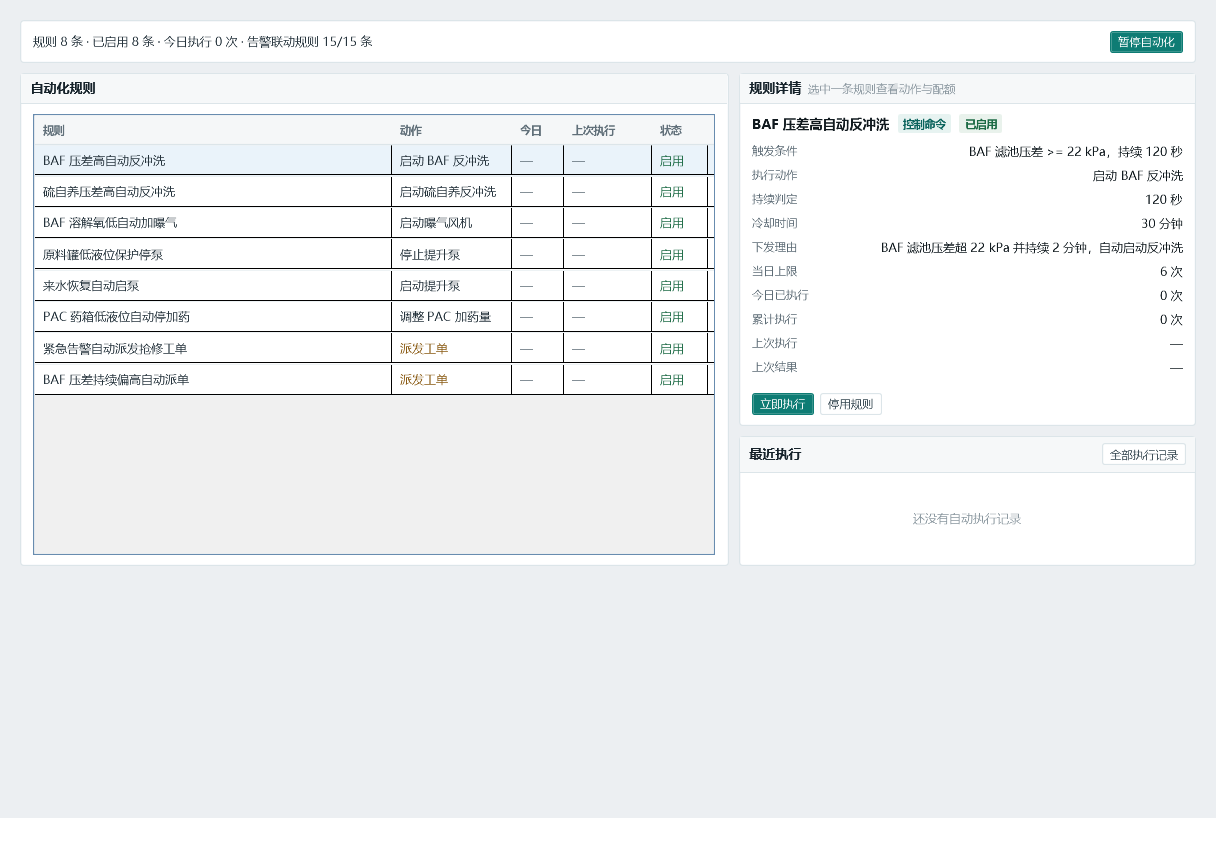
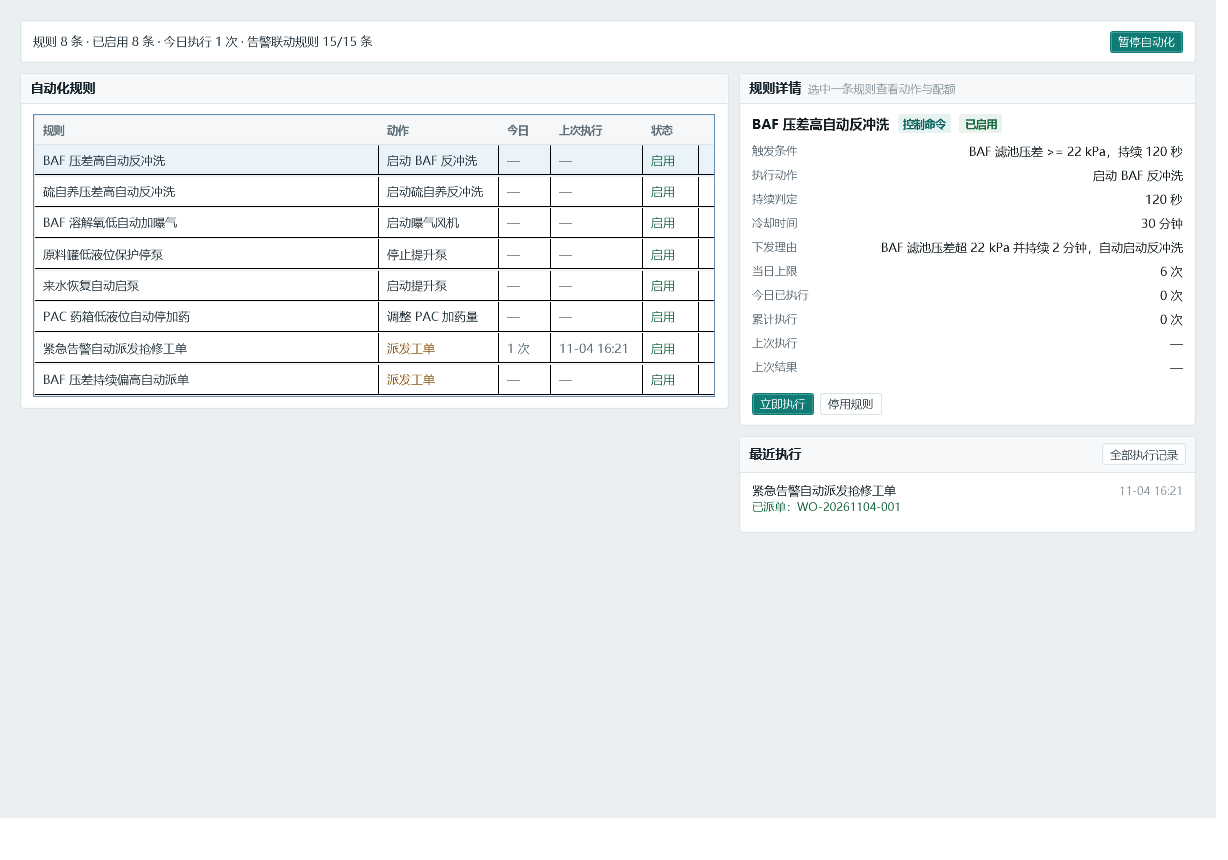
fix(desktop): 表格空态不再塞假行、表高贴合内容；参数表去掉重复单位列

diff --git a/native/ZhifuWater.Desktop/Pages/ParamsPage.cs b/native/ZhifuWater.Desktop/Pages/ParamsPage.cs
@@ -12,6 +12,7 @@ public sealed class ParamsPage : PageBase
 {
     private DataGrid _table = null!;
     private DataGrid _requests = null!;
+    private TextBlock _requestsEmpty = null!;
     private StackPanel _detail = null!;
     private TextBlock _info = null!;
     private ParamInfo? _selected;
@@ -59,8 +60,8 @@ public sealed class ParamsPage : PageBase
         columns.ColumnDefinitions.Add(new ColumnDefinition { Width = new GridLength(1, GridUnitType.Star) });
 
         var left = new StackPanel();
-        _table = Table(new[] { "参数", "分组", "当前值", "范围", "单位", "写入", "版本", "更新时间" },
-            new double[] { 0, 118, 84, 108, 52, 56, 42, 112 });
+        _table = Table(new[] { "参数", "分组", "当前值", "范围", "写入", "版本", "更新时间" },
+            new double[] { 0, 118, 96, 108, 60, 42, 108 });
         _table.SelectionChanged += (_, _) =>
         {
             if (_table.SelectedItem is UiRow row && row.Data is ParamInfo p)
@@ -80,7 +81,14 @@ public sealed class ParamsPage : PageBase
         var reqBody = new DockPanel { LastChildFill = true };
         DockPanel.SetDock(reqButtons, Dock.Bottom);
         reqBody.Children.Add(reqButtons);
-        reqBody.Children.Add(_requests);
+        _requestsEmpty = Kit.T("暂无待审批的修改申请", 12, Pal.Muted2);
+        _requestsEmpty.HorizontalAlignment = HorizontalAlignment.Center;
+        _requestsEmpty.Margin = new Thickness(0, 16, 0, 16);
+        _requestsEmpty.Visibility = Visibility.Collapsed;
+        var reqHost = new Grid();
+        reqHost.Children.Add(_requests);
+        reqHost.Children.Add(_requestsEmpty);
+        reqBody.Children.Add(reqHost);
         var reqCard = Kit.Card("参数修改申请", reqBody, null, "审批后生效", new Thickness(10, 8, 10, 8));
         reqCard.Margin = new Thickness(0, 10, 0, 0);
         left.Children.Add(reqCard);
@@ -117,12 +125,11 @@ public sealed class ParamsPage : PageBase
                 p.Group,
                 ParamValueText(p),
                 ParamRangeText(p),
-                p.Unit,
                 WriteModeText(p.WriteMode),
                 "v" + p.Version,
                 p.UpdatedAt,
             },
-            Fgs = new[] { Pal.Ink2, Pal.Muted, Pal.Ink, Pal.Muted, Pal.Muted2, Pal.Muted2, Pal.Muted2, Pal.Muted2 },
+            Fgs = new[] { Pal.Ink2, Pal.Muted, Pal.Ink, Pal.Muted, Pal.Muted2, Pal.Muted2, Pal.Muted2 },
             Data = p,
             Key = p.Key,
         }).ToList();
@@ -146,17 +153,8 @@ public sealed class ParamsPage : PageBase
             Key = r.Id,
         }).ToList();
         _requests.ItemsSource = reqRows;
-        if (reqRows.Count == 0)
-        {
-            _requests.ItemsSource = new[]
-            {
-                new UiRow
-                {
-                    Texts = new[] { "暂无待审批的修改申请", "", "", "", "", "" },
-                    Fgs = Enumerable.Repeat(Pal.Muted2, 6).ToArray(),
-                },
-            };
-        }
+        _requests.Visibility = reqRows.Count == 0 ? Visibility.Collapsed : Visibility.Visible;
+        _requestsEmpty.Visibility = reqRows.Count == 0 ? Visibility.Visible : Visibility.Collapsed;
         ShowDetail();
     }
 

diff --git a/native/ZhifuWater.Desktop/Ui/UiKit.cs b/native/ZhifuWater.Desktop/Ui/UiKit.cs
@@ -486,8 +486,8 @@ public static class Kit
             var chrome = grid.Items.Count * grid.RowHeight + grid.ColumnHeaderHeight + 4 > grid.ActualHeight
                 ? SystemParameters.VerticalScrollBarWidth : 0;
             var avail = scroller != null && scroller.ViewportWidth > 80
-                ? scroller.ViewportWidth - 6
-                : grid.ActualWidth - 6 - chrome;
+                ? scroller.ViewportWidth - 14
+                : grid.ActualWidth - 14 - chrome;
             if (avail < 80 || headers.Length == 0 || Math.Abs(avail - lastAvail) < 0.5) return;
             lastAvail = avail;
 
@@ -520,7 +520,7 @@ public static class Kit
                 var extra = avail - sum;
                 if (flex.Length > 0)
                 {
-                    foreach (var i in flex) final[i] += extra / flex.Length;
+                    foreach (var i in flex) final[i] += extra / flex.Length - 1;
                 }
                 else
                 {
@@ -534,8 +534,8 @@ public static class Kit
                 // 固定列放得下、只是弹性列内容长：固定列按内容给足，剩下的全给弹性列。
                 final = (double[])need.Clone();
                 var fixedNeed = need.Sum() - flex.Sum(i => need[i]);
-                var share = (avail - fixedNeed) / flex.Length;
-                foreach (var i in flex) final[i] = share;
+                var share = (avail - fixedNeed) / flex.Length - 2;
+                foreach (var i in flex) final[i] = Math.Max(108, share);
                 grid.HorizontalScrollBarVisibility = ScrollBarVisibility.Disabled;
             }
             else

diff --git a/native/ZhifuWater.Desktop/Pages/AutomationPage.cs b/native/ZhifuWater.Desktop/Pages/AutomationPage.cs
@@ -61,6 +61,7 @@ public sealed class AutomationPage : PageBase
         grid.ColumnDefinitions.Add(new ColumnDefinition { Width = new GridLength(1, GridUnitType.Star) });
 
         var leftCard = Kit.Card("自动化规则", _rules, null, null, new Thickness(12, 10, 12, 10));
+        leftCard.VerticalAlignment = VerticalAlignment.Top;
         Grid.SetColumn(leftCard, 0);
         Grid.SetColumn(right, 2);
         grid.Children.Add(leftCard);
